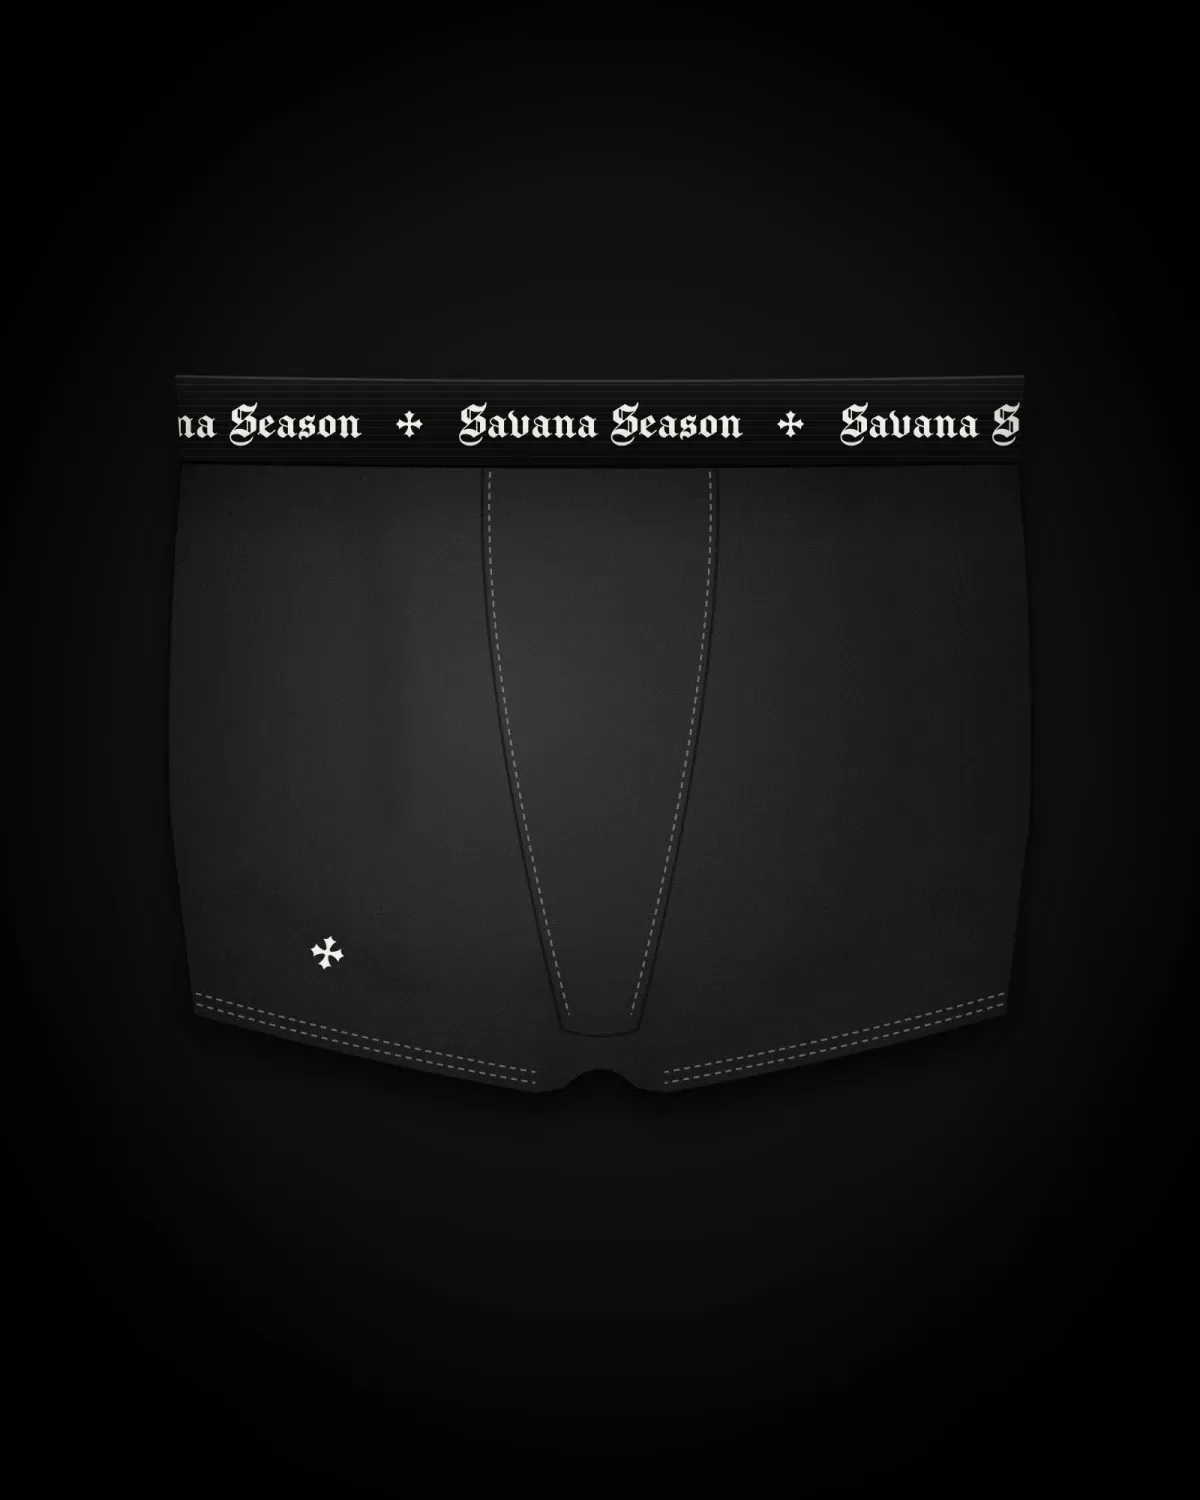
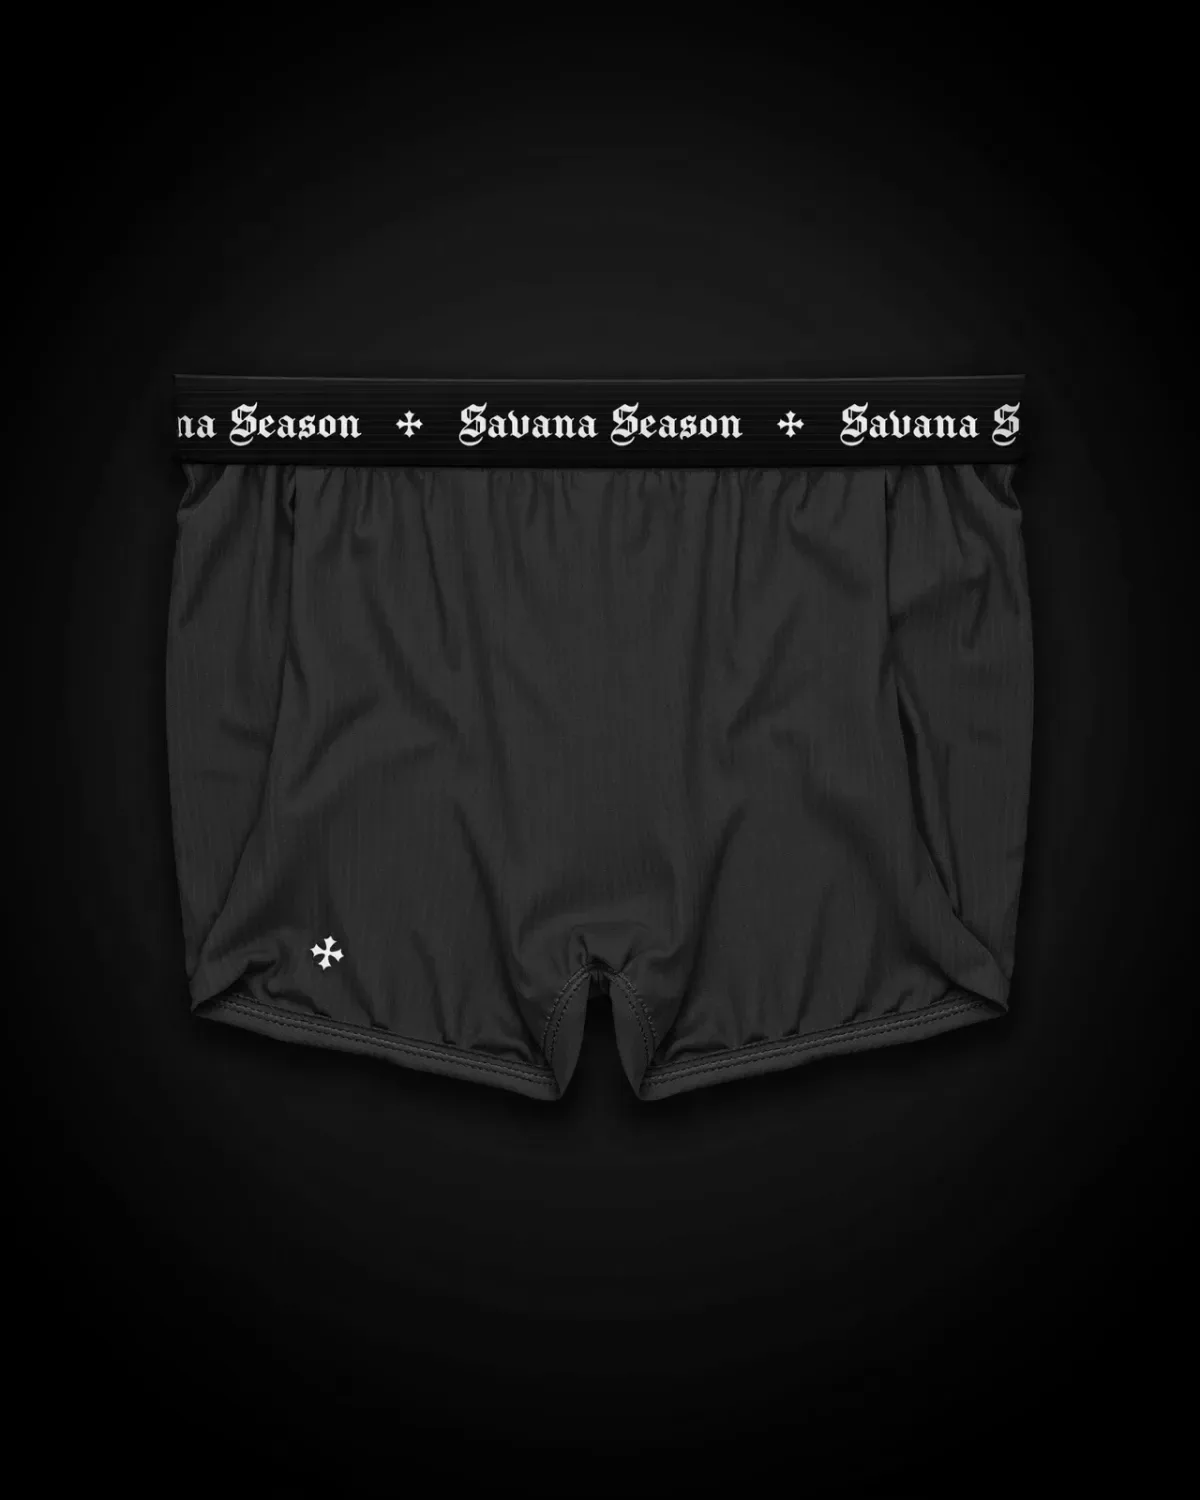
Giyim: gerçekçi fotoğraflar, geniş şortlar ve yedi yeni parça
- Boxer ve şortlar vektör çizimden gerçek ürün fotoğrafına çevrildi (logo, bel jakarı, etiket ve yamalar maskeyle korunarak)
- Şortlar geniş kalıp, dize yakın boy
- Yeni: Kapüşonlu, Tişört, Yarış Forması, Eşofman Takımı, Kargo Pantolon, Şişme Mont, Şapka (G-07..13); logolar fotoğrafa kumaşı izleyerek işlendi
- Giyim koleksiyonu satırı ve metni güncellendi

diff --git a/src/data/koleksiyon.js b/src/data/koleksiyon.js
@@ -55,8 +55,8 @@ export const koleksiyonlar = [
     id: 'giyim',
     ad: 'Giyim',
     tur: 'giyim',
-    satir: 'Bandana, kamuflaj, mühür.',
-    metin: 'Boxer ve şort: klasik paisley ve bandana kareleri, Savana Season kamuflajı ve düz renk Mühür serisi. Bel lastiğinde Old English logo, bacakta haç.',
+    satir: 'Sade, ağır, imzalı.',
+    metin: 'Boxer ve şorttan kapüşonluya, formadan şişme monta: sade kesimler, ağır kumaşlar. İmza hep aynı: Old English Savana Season ve haç.',
   },
 ];
 
@@ -80,7 +80,7 @@ export const malzemeler = [
   },
 ];
 
-// 21 nesne ve 6 giyim. kod: koleksiyonun baş harfi ve sıra. Giyimde iki renk: ana görsel ilk renk, ikinci görsel öbür renk
+// 21 nesne ve 13 giyim. kod: koleksiyonun baş harfi ve sıra. Giyimde iki renk: ana görsel ilk renk, ikinci görsel öbür renk
 export const urunler = [
   // Katedral
   { slug: 'kemer', ad: 'Kemer', koleksiyon: 'katedral', rol: 'Kitap desteği', malzeme: 'Brüt beton',
@@ -139,7 +139,21 @@ export const urunler = [
   { slug: 'muhur-boxer', ad: 'Mühür Boxer', koleksiyon: 'giyim', rol: 'Boxer', malzeme: 'Pamuk ve modal', renkler: 'Kara · Kemik',
     metin: 'Düz renk. Jakar bel lastiği ve bacakta küçük haç nakışı.' },
   { slug: 'muhur-sort', ad: 'Mühür Şort', koleksiyon: 'giyim', rol: 'Şort', malzeme: 'Ağır penye', renkler: 'Kara · Beton',
-    metin: 'Düz renk ağır penye. Bacakta dikişli deri haç yama ve Old English logo nakışı.' },
+    metin: 'Geniş kesim, düz renk ağır penye. Bacakta dikişli deri haç yama ve Old English logo nakışı.' },
+  { slug: 'kapusonlu', ad: 'Kapüşonlu', koleksiyon: 'giyim', rol: 'Kapüşonlu', malzeme: 'Ağır pamuk polar', renkler: 'Kara · Beton',
+    metin: 'Bol kesim, ağır kapüşonlu. Göğüste küçük nakış haç; başka hiçbir şey.' },
+  { slug: 'tisort', ad: 'Tişört', koleksiyon: 'giyim', rol: 'Tişört', malzeme: 'Ağır pamuk', renkler: 'Kara · Kemik',
+    metin: 'Bol kesim, kalın yaka, düşük omuz. Göğüste Old English Savana Season baskısı.' },
+  { slug: 'yaris-formasi', ad: 'Yarış Forması', koleksiyon: 'giyim', rol: 'Forma', malzeme: 'Nefes alan file', renkler: 'Kara · Kemik',
+    metin: 'Motokros formasından: yan ve kol panelleri, omuzlarda karo derzi ızgarası. Göğüste Old English logo.' },
+  { slug: 'esofman', ad: 'Eşofman Takımı', koleksiyon: 'giyim', rol: 'Üst ve alt', malzeme: 'Triko', renkler: 'Kara', detayAd: 'alt',
+    metin: 'Tam fermuarlı üst ve düz kesim alt; kol ve bacak boyunca ince kemik şerit. Göğüste logo nakışı, bacakta haç.' },
+  { slug: 'kargo', ad: 'Kargo Pantolon', koleksiyon: 'giyim', rol: 'Pantolon', malzeme: 'Ripstop pamuk', renkler: 'Kara · Beton',
+    metin: 'Geniş kesim kargo, kapaklı yan cepler. Bacakta dokuma etiket.' },
+  { slug: 'sisme-mont', ad: 'Şişme Mont', koleksiyon: 'giyim', rol: 'Mont', malzeme: 'Dolgulu naylon', renkler: 'Kara · Beton',
+    metin: 'Yatay dikişli şişme mont, kapüşonlu yüksek yaka. Göğüste nakış haç.' },
+  { slug: 'sapka', ad: 'Şapka', koleksiyon: 'giyim', rol: 'Şapka', malzeme: 'Yıkanmış pamuk', renkler: 'Kara · Kemik',
+    metin: 'Altı panelli şapka, önde nakış haç.' },
 ];
 
 export const koleksiyonBul = (id) => koleksiyonlar.find((k) => k.id === id);
